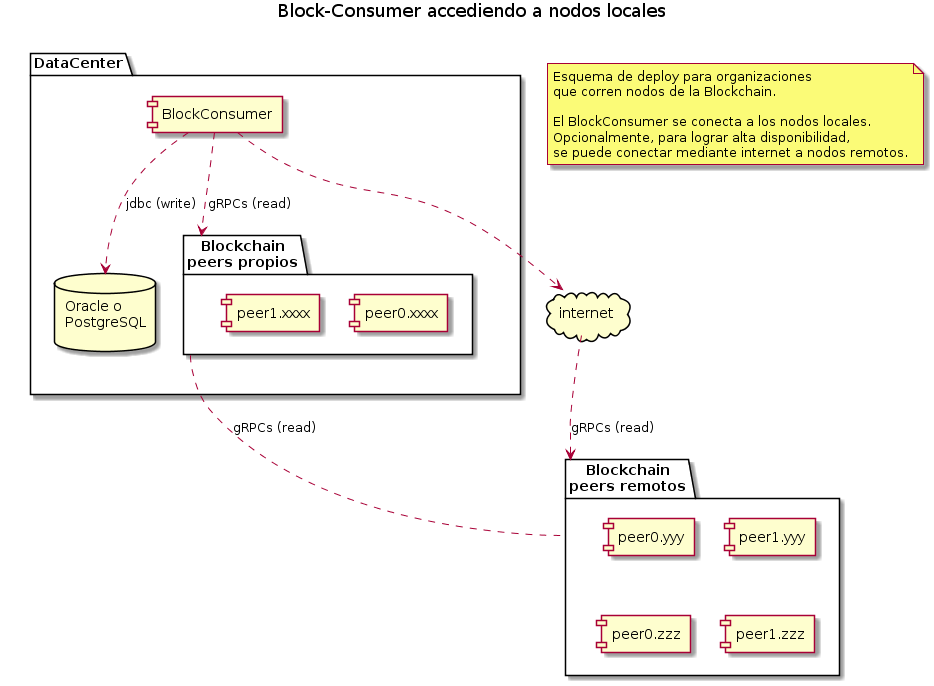
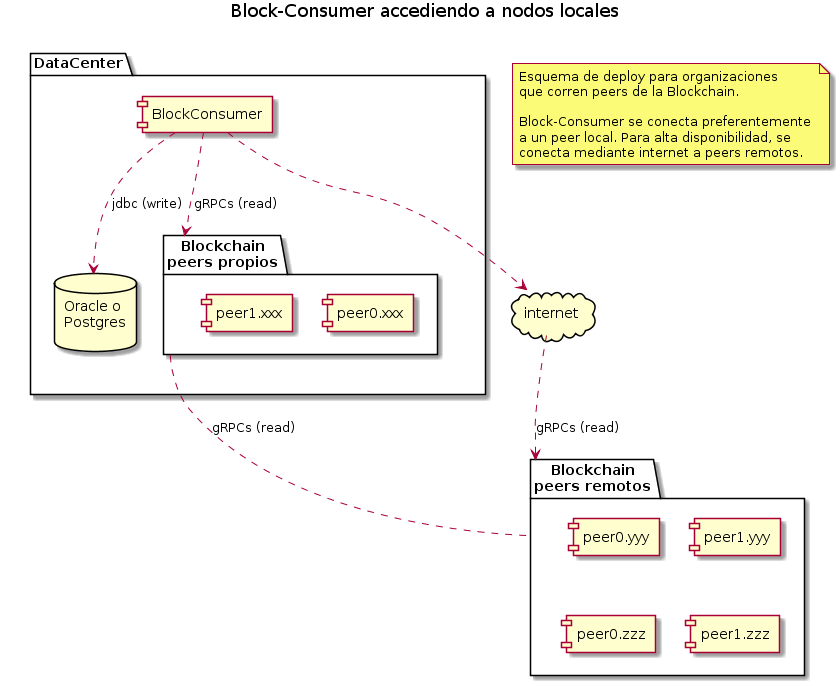
Nuevo diagrama de red Correcciones en el README de hlf-proxy

diff --git a/applications/hlf-proxy/README.md b/applications/hlf-proxy/README.md
@@ -6,7 +6,7 @@
 
 ## Objetivo
 
-Exponer endpoints REST que permiten invocar las funciones de los chaincodes de negocio (ejemplo padfedcc) y del Query System Chaincode [QSCC](https://github.com/hyperledger/fabric/tree/master/core/scc/qscc) de una red de Blockchain [Hyperledger Fabric 1.4](https://hyperledger-fabric.readthedocs.io/en/release-1.4/index.html)
+Exponer endpoints REST que permiten invocar las funciones de los chaincodes de negocio (ejemplo padfedcc) y del Query System Chaincode [QSCC](https://github.com/hyperledger/fabric/tree/master/core/scc/qscc) en una red de Blockchain [Hyperledger Fabric 1.4](https://hyperledger-fabric.readthedocs.io/en/release-1.4/index.html)
 
 Provee una Swagger UI que atiende en [FQDN]:[port configurado en application.conf]/swagger#/
 
@@ -39,11 +39,11 @@ Campo| Descripción
 function | String conteniendo el nombre de la función del chaincode.
 Args  | Json array con los parámetros que recibe la función del chaincode.
 
-Ej: invoke a la function "putPersona" que recibe dos parámetros: cuit numerico y un string conteniendo un json object (con sus caracteres `"` escapeados) con los datos identificatorios de una persona.
+Ej: invoke a la function "putPersona" que recibe un argumento strinh conteniendo un json object escapeado con los datos identificatorios de una persona.
 ``` json
 {"function":"putPersona","Args":["{\"id\":30562559112,\"persona\":{\"id\":30562559112,\"tipoid\":\"C\",\"tipo\":\"J\",\"estado\":\"I\",\"razonsocial\":\"xxxx\",\"formajuridica\":35,\"mescierre\":11,\"contratosocial\":\"1975-12-29\",\"inscripcion\":{\"registro\":2,\"numero\":194},\"ds\":\"2013-01-29\"},\"jurisdicciones\":{\"7\":{\"provincia\":77,\"sede\":true,\"desde\":\"2002-04-15\",\"ds\":\"2003-04-15\"}},\"impuestos\":{\"30\":{\"impuesto\":30,\"periodo\":199003,\"estado\":\"AC\",\"dia\":1,\"motivo\":44,\"inscripcion\":\"1990-03-01\",\"ds\":\"2003-04-15\"},\"301\":{\"impuesto\":301,\"periodo\":197701,\"estado\":\"AC\",\"dia\":1,\"motivo\":44,\"inscripcion\":\"1977-01-01\",\"ds\":\"2003-04-15\"}},\"actividades\":{\"883-466110\":{\"actividad\":\"883-466110\",\"orden\":1,\"desde\":201311,\"ds\":\"2014-10-02\"},\"883-12110\":{\"actividad\":\"883-12110\",\"orden\":2,\"desde\":201311,\"ds\":\"2014-10-02\"}},\"etiquetas\":{\"329\":{\"etiqueta\":329,\"periodo\":20160401,\"estado\":\"AC\",\"ds\":\"2016-04-12\"}},\"domicilios\":{\"1.1\":{\"tipo\":1,\"orden\":1,\"estado\":2,\"provincia\":7,\"localidad\":\"PALMIRA\",\"cp\":\"5584\",\"calle\":\"XXXX\",\"numero\":42,\"ds\":\"2003-04-15\"},\"2.1\":{\"tipo\":2,\"orden\":1,\"estado\":2,\"provincia\":7,\"localidad\":\"PALMIRA\",\"cp\":\"5584\",\"calle\":\"XXXX\",\"numero\":42,\"ds\":\"2003-04-15\"}}}"]}
 ``` 
-### query e invoke: HTTP Status Code
+### HTTP Status Code
 
 Basado en [List of HTTP status codes](https://en.wikipedia.org/wiki/List_of_HTTP_status_codes)
 
@@ -52,10 +52,11 @@ Valor | Nombre | Descripción
 200 | OK (VALID)   | quey ok o tx invoke avalada por los Peers y validada por los Committers (actualizó el State).
 202 | ACCEPTED  | Tx invoke avalada por los Peers y procesada por el Orderer. Se desconoce si fue validada por los Committers.
 400 | BAD REQUEST| Error atribuible al cliente.
-404 | NOT FOUND  | El cliente mediante una funcion get intentó obtener un asset inexistente.
 403 | FORBIDDEN  | El cliente intentó ejecutar una función del chaincode para la cual no tiene privilegios. 
+404 | NOT FOUND  | El cliente mediante una funcion get intentó obtener un registro inexistente.
 409 | CONFLICT | Tx invoke avalada por los Peers pero posteriormente invalidada por los Committers. La tx fue agregada en un bloque pero quedó marcada como inválida. No actualizó el State. [Ver txflow](https://hyperledger-fabric.readthedocs.io/en/release-1.4/txflow.html)
 500 | INTERNAL SERVER ERROR | Error interno del sistema.
+501 | NOT IMPLEMENTED | El cliente invoco una función inexistente.
 
 ### query e invoke: Response
 
@@ -67,15 +68,15 @@ El body del response contiene un json object con la siguiente estructura:
 
 Campo        | SUCCESS verbose=false | SUCCESS verbose=true| ERROR | Desc
 ---          | --- | --- | --- | ---
-status       | X | X | X | [Ver query e invoke: HTTP Status Code]
-block        | X | X | X | Numero de bloque en que quedó incluida la tx. Solo se informa cuando el proxy espera por el evento de validación de la tx ``waitForEventSeconds>0``
+status       | X | X | X | [Ver HTTP Status Code]
+block        | X | X | X | Numero de bloque en que quedó incluida la tx. Solo se informa cuando el proxy espera por el evento de validación de la tx `waitForEventSeconds>0`
 txId         | X | X | X | id de la tx fabric
 time         | X | X | X | timestamp UTC en formato `yyyy-MM-dd HH:mm:ss`, ej: `2018-07-23 14:31:56`
 channel      |   | X | X | Nombre del channel
 chaincode    |   | X | X | Nombre del chaincode
 txStatus     |   | X | X | [Ver Campo txStatus]
 step         |   |   | X | [Ver Campo step]
-errMsg       |   |   | X | Mensaje de error generado en el step. Si el step es SIMULATING_TX, entonces **errMsg** contiene el mismo mensaje que vino en la respuesta del chaincode **ccResponse.msg**.
+errMsg       |   |   | X | Mensaje de error generado en el step.
 thread       |   | X | X | Nombre del thread que procesó la tx
 client       |   | X | X | Integration api utilizada. Ej: `afip.bc.fabric.api`
 simulatingMs |   | X | X | Milisegundos que demoró la simulación
@@ -129,7 +130,7 @@ Ejemplo:
[1 lines of base64/hex data omitted]
   "time": "2019-02-28 14:50:20",
   "status": 200,
-  "ccResponse": "[{\"Key\":\"PER_20066806163\",\"Record\":{\"cuit\":20066806163,\"nombre\":\"JURGEN\",\"apellido\":\"VICTOR HUGO\",\"tipoPersona\":\"F\",\"estadoCuit\":\"A\",\"tipoDoc\":90,\"documento\":\"6680616\",\"sexo\":\"M\",\"mesCierre\":12,\"fechaNacimiento\":\"1935-11-10\"}}]"
+  "ccResponse": "[{\"Key\":\"per:20066806163#per\",\"Record\":\"id\":30562559112,\"tipoid\":\"C\",\"tipo\":\"J\",\"estado\":\"I\",\"razonsocial\":\"xxxx\",\"formajuridica\":35,\"mescierre\":11,\"contratosocial\":\"1975-12-29\",\"inscripcion\":{\"registro\":2,\"numero\":194},\"ds\":\"2013-01-29\"}}]"
 }
 ```
 ## Como obtener la imagen docker
@@ -139,7 +140,7 @@ docker pull padfed/bc-proxy
 ```
 ## Como correr el servicio
 
-#### Opcion 1
+#### Opción 1 - Mediante docker run
 
 ``` sh
 docker run --rm --name hlf-proxy -d -v ${PWD}/conf:/conf -p 8085:8085 padfed/bc-proxy:latest
@@ -147,8 +148,7 @@ docker run --rm --name hlf-proxy -d -v ${PWD}/conf:/conf -p 8085:8085 padfed/bc-
 > Si se requiere invocar el container en modo readOnly debe agregarse el siguiente parametro: **--tmpfs /tmp:exec**
 <br/>
 
-#### Opcion 2
-
+#### Opción 2 - Mediante docker-compose
 
 ``` sh
 version: '3.5'
@@ -175,11 +175,9 @@ services:
       - hlf-proxy
 ```
 
-
 ``` sh
-docker-compose up
+$ docker-compose up
 ```
-
 
 <br/>
 
@@ -371,14 +369,13 @@ peers:
 
 ```
 
-
 ### Changelog
 ---
 
 1.4.1
 
-* Fix: NPE al utilizar funciones de CC 0.6.x
-* Fix: NPE al recibir una invocacion fallida si el request esta en modo verbose
+* Fix: NPE invocando funciones que responden sin message
+* Fix: NPE reciviendo un error desde el chaincode cuando el request esta en modo verbose
 
 1.4.0
 

diff --git a/README.md b/README.md
@@ -4,7 +4,9 @@ Documentación del proyecto de Blockchain del Padrón Federal.
 
 ---
 
-[Vision General](https://github.com/padfed/padfed-doc/tree/master/overview)
+[Visión General](https://github.com/padfed/padfed-doc/tree/master/overview)
+
+![](images/network-diagram-1.png)
 
 ---
 
@@ -22,9 +24,8 @@ Documentación del proyecto de Blockchain del Padrón Federal.
 
 ## Aplicaciones de Integración:
 
-![](images/aplicaciones-de-integracion.png)
-
-- [HLF-proxy](https://cloud.docker.com/u/padfed/repository/docker/padfed/block-consumer)
+- [HLF-Proxy](applications/hlf-proxy/README.md)
 
 - [Block-Consumer](applications/block-consumer/README.md)
 
+![](images/aplicaciones-de-integracion.png)

diff --git a/chaincode/README.md b/chaincode/README.md
@@ -15,4 +15,4 @@ Funciones:
 | queryByKey| Recupera el valor que corresponde a una key registrada en el State. |
 | queryByKeyRange | Recupera un resultset con un registro para cada componente registrado en el State cuyas key estan comprendidas en el rango. |
 | queryHistory | Recupera la historia de cambios de una key. |
-| version | Recuperala versión del chaincode.
+| version | Recupera la versión del chaincode.
